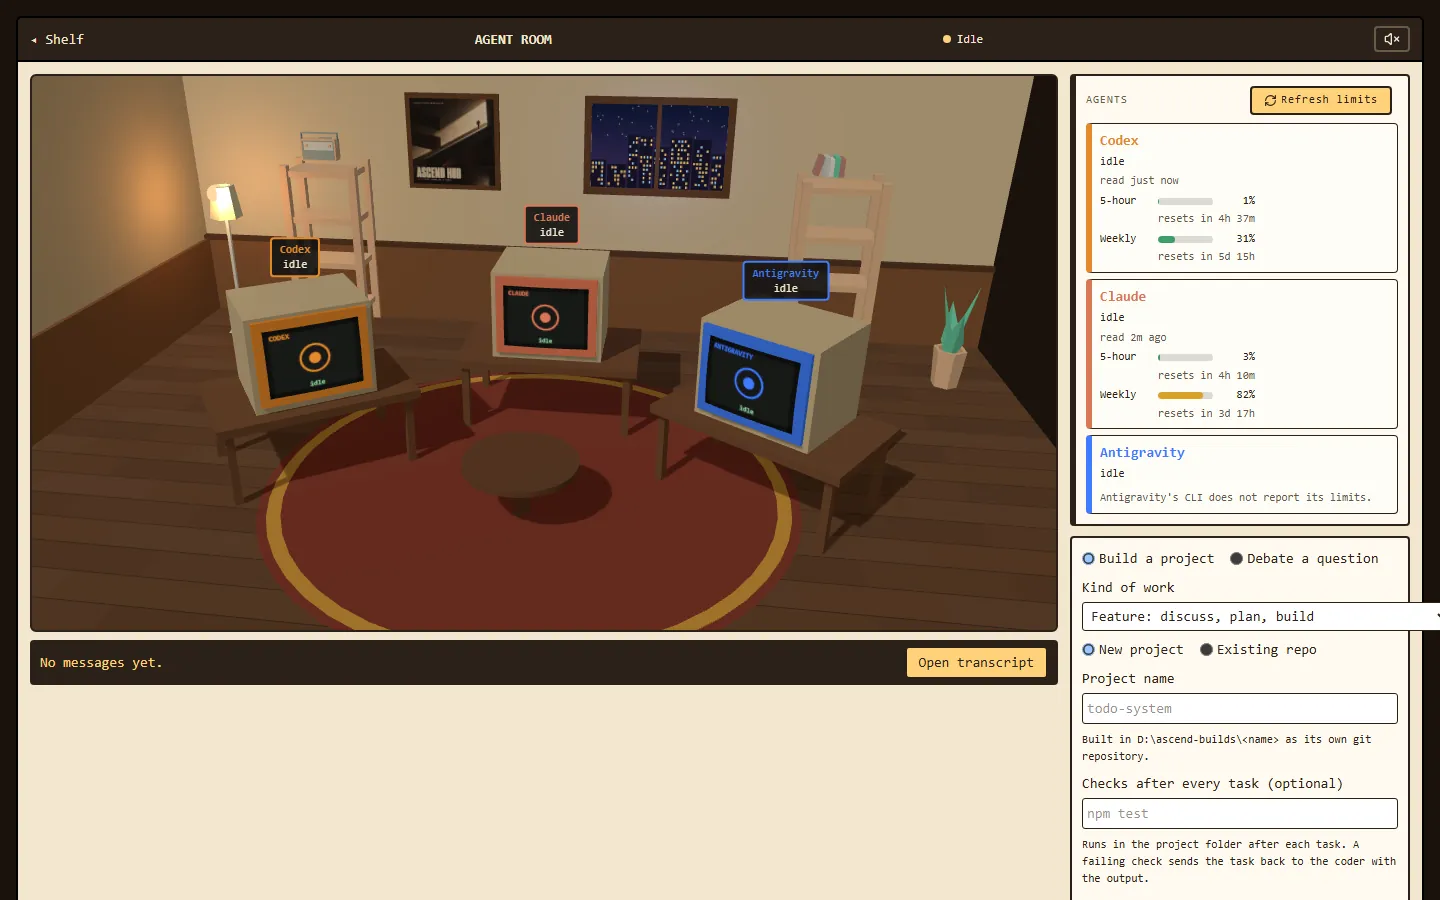
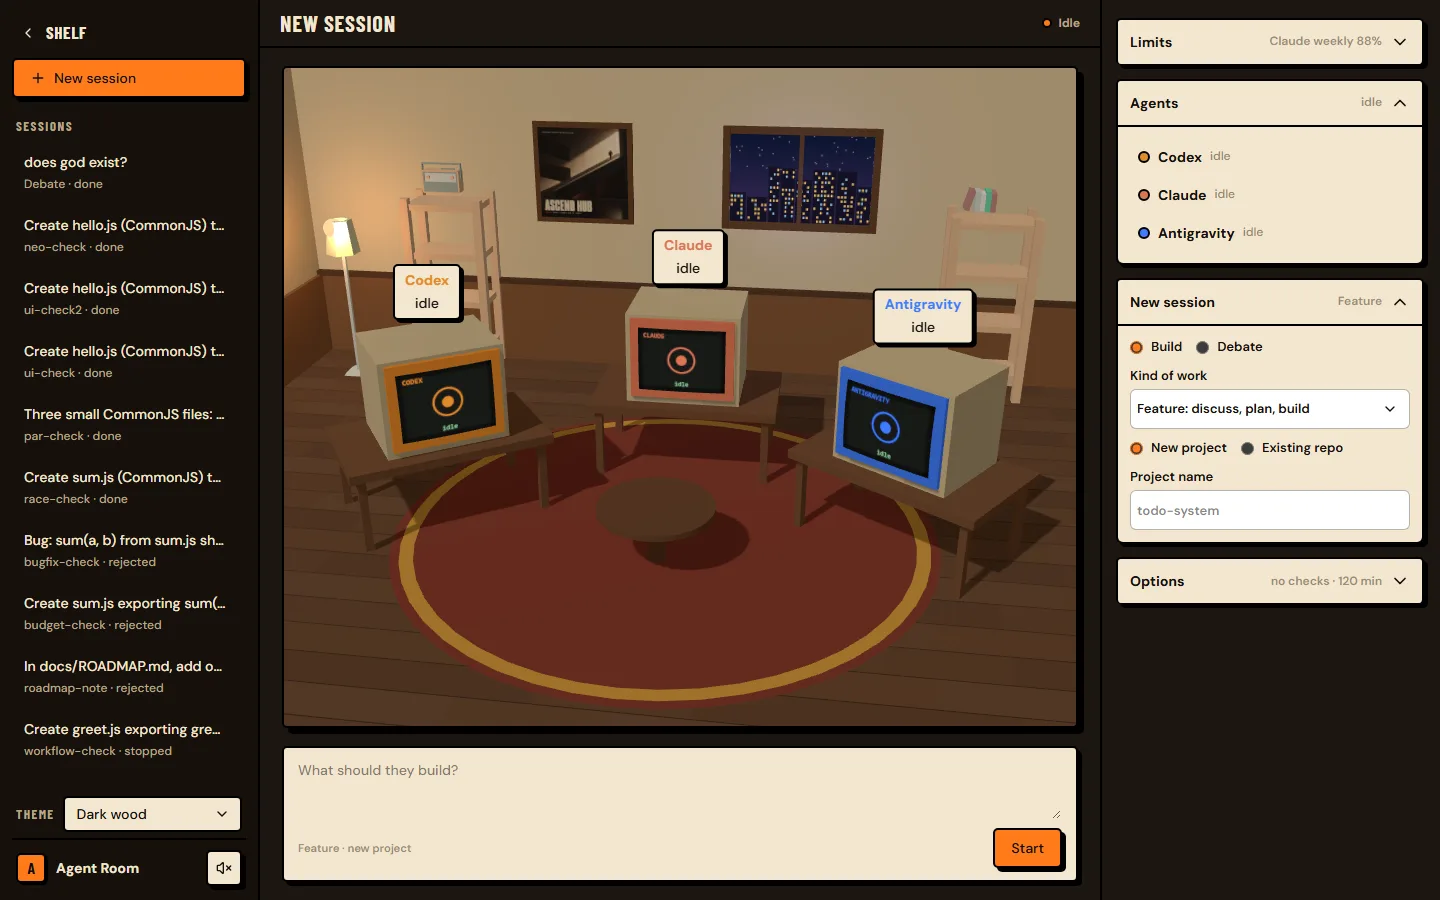
docs(readme): describe the new Agent Room layout and themes
Fresh room screenshots in the three-column Dark wood layout, a collage
of the six other themes, and the session history, formatted chat and
theme picker in the feature list. The usage steps point to where the
controls now live.

diff --git a/README.md b/README.md
@@ -83,6 +83,8 @@ Everything runs on your own computer and listens on `127.0.0.1` only.
 
 A 3D room where **Codex**, **Claude** and **Antigravity** build software together while you approve each step.
 
+The page has three columns: past sessions on the left, the 3D room and the chat in the middle with the prompt box under it, and session details, limits, agents and the plan on the right.
+
 - **Build a project:** the agents discuss the task, agree on roles (orchestrator, coders, reviewer), plan small tasks, build them one by one with a commit each, review, and write a summary.
 - **Three owner gates:** you approve the roles, the plan and the result. At the roles and plan gates you can also send the step back with a note, or pick one of the agents' suggested changes.
 - **New project or existing repo:** a new project gets its own git repository in `D:\ascend-builds\<name>`. An existing repo session works on its own branch in its own git worktree, so your checkout is never touched. At the end you can merge (fast-forward only), keep the branch, or reject it.
@@ -96,6 +98,9 @@ A 3D room where **Codex**, **Claude** and **Antigravity** build software togethe
 - **Debate a question:** the agents answer on their own, critique each other, and a judge writes the combined answer with *Where they agree*, *Where they disagree* and *Recommendation*. Debates are read-only.
 - **See everything:** the *Workflow* tab shows stage timings, swim lanes per agent, each task's rounds, reviews, checks, tokens and diffs. The *Deck* shows the 3D room, Claude's sub-agents and an optional sound layer.
 - **Usage:** tokens per agent and task, plus cost where the CLI reports it.
+- **Session history:** every past session is listed in the left column. Click one to read its chat, workflow, plan and verdict again.
+- **Formatted chat:** agent replies render Markdown, with headings, lists, inline code and code blocks that collapse when long. **Full transcript** opens every message in one drawer.
+- **Themes:** seven neobrutalist colour themes: *Dark wood* (default), *Sky*, *Lime*, *Retro SaaS*, *BrutAdmin*, *Brutstack* and *Neoflux*. Pick one under **Theme** at the bottom of the left column. Your browser remembers the choice.
 - **Voice gates:** with Ascend Vision running, it announces when the room needs you and accepts spoken decisions such as "approve" or "merge", confirmed with "yes".
 
 ### The TV and its channels
@@ -124,8 +129,13 @@ The big CRT on the home screen is a working television. Click its upper knob to 
 | | |
 | --- | --- |
 | <img src="docs/screenshots/home.webp" alt="Home screen with the retro CRT television, calendar and clock" /> **Home** | <img src="docs/screenshots/limits.webp" alt="The Limits panel open over the home screen, with 5-hour and weekly bars for Claude and Codex" /> **Subscription limits** |
-| <img src="docs/screenshots/tv-detail.webp" alt="The Codex CLI status monitor opened from its shelf TV" /> **Status monitor** | <img src="docs/screenshots/room-start.webp" alt="The Agent Room: three agent desks in a 3D room, agent cards with limits, and the start form" /> **Agent Room** |
+| <img src="docs/screenshots/tv-detail.webp" alt="The Codex CLI status monitor opened from its shelf TV" /> **Status monitor** | <img src="docs/screenshots/room-start.webp" alt="The Agent Room in the Dark wood theme: session history on the left, the 3D room with three agent desks and the prompt box in the middle, limits, agents and new-session options on the right" /> **Agent Room** |
 | <img src="docs/screenshots/room-workflow.webp" alt="The Workflow tab of a finished parallel session, with swim lanes and three tasks" /> **Workflow view** (two tasks ran in parallel) | <img src="docs/screenshots/room-debate.webp" alt="A finished debate with the judge's combined answer" /> **Debate verdict** |
+
+<p align="center">
+<img src="docs/screenshots/room-themes.webp" alt="The same finished session in six themes: Sky, Lime, Retro SaaS, BrutAdmin, Brutstack and Neoflux" width="900" /><br/>
+<b>Agent Room themes</b>: Sky, Lime, Retro SaaS (top), BrutAdmin, Brutstack, Neoflux (bottom). Dark wood is above.
+</p>
 
 **The TV, the CD player and the game**
 
@@ -181,15 +191,15 @@ Then double-click **Ascend Hub** on the desktop. Closing the launcher window whi
 ## Using the Agent Room
 
 1. Open **http://127.0.0.1:5173/room**, or click the *Ascend Hub* poster on the shelf. Wait until all three agents show as ready.
-2. Choose **Build a project** or **Debate a question**.
-3. For a build, pick the **Kind of work** and either a **New project** name or an **Existing repo**. Add a **check** command such as `npm test`. It is required for *Bug fix* and *Refactor*.
-4. Optionally set models, limits, sub-agents and **Run independent tasks at the same time**. Tick **Set roles myself** to skip the discussion.
-5. Describe the task and press **Start**.
+2. Under **New session** in the right column, choose **Build** or **Debate**.
+3. For a build, pick the **Kind of work** and either a **New project** name or an **Existing repo**. Under **Options**, add a **check** command such as `npm test`. It is required for *Bug fix* and *Refactor*.
+4. Also under **Options**, optionally set models, limits, sub-agents and **Run independent tasks at the same time**. Tick **Set roles myself** to skip the discussion.
+5. Describe the task in the prompt box under the room and press **Start**.
 6. Answer the gates as they come:
    - **Roles:** edit the roles or approve them.
    - **Plan:** rename tasks, change who does each, tick **Race all coders** on a hard task, then approve. Or ask for changes with a note.
    - **Result:** read the summary and diff, tick the memory notes worth keeping, then merge, keep the branch, open a pull request (pushes to `origin` and uses the GitHub CLI `gh`), or reject.
-7. Follow progress in the *Deck* and *Workflow* tabs. **Stop** in the top bar ends the session at any time; committed work stays. A stopped repo session keeps its worktree for inspection until you press **Remove worktrees** above the start form; its branch stays either way.
+7. Follow progress in the *Deck* and *Workflow* tabs. **Stop** in the top bar ends the session at any time; committed work stays. A stopped repo session keeps its worktree for inspection until you press **Remove worktrees** in the right column; its branch stays either way.
 
 > [!TIP]
 > Check the **Limits** bars before a long session. The start form also warns when an agent has used 90% or more of a window.
@@ -341,7 +351,7 @@ desktop/tests/Test-SessionReplacement.ps1
 | Path | Contents |
 | --- | --- |
 | `app/` | Pages and API routes: home, `/room`, the status and room proxies, media APIs |
-| `app/room/` | Agent Room UI: deck, workflow, gates, start form, limits |
+| `app/room/` | Agent Room UI: deck, workflow, gates, start form, limits, session history, themes |
 | `scripts/agent-room/` | Agent Room server: sessions, prompts, git work, checks, quota, memory |
 | `scripts/status-adapters/` | CLI status wrappers, hooks and reporters |
 | `components/`, `hooks/`, `lib/` | Shared UI components and logic |
